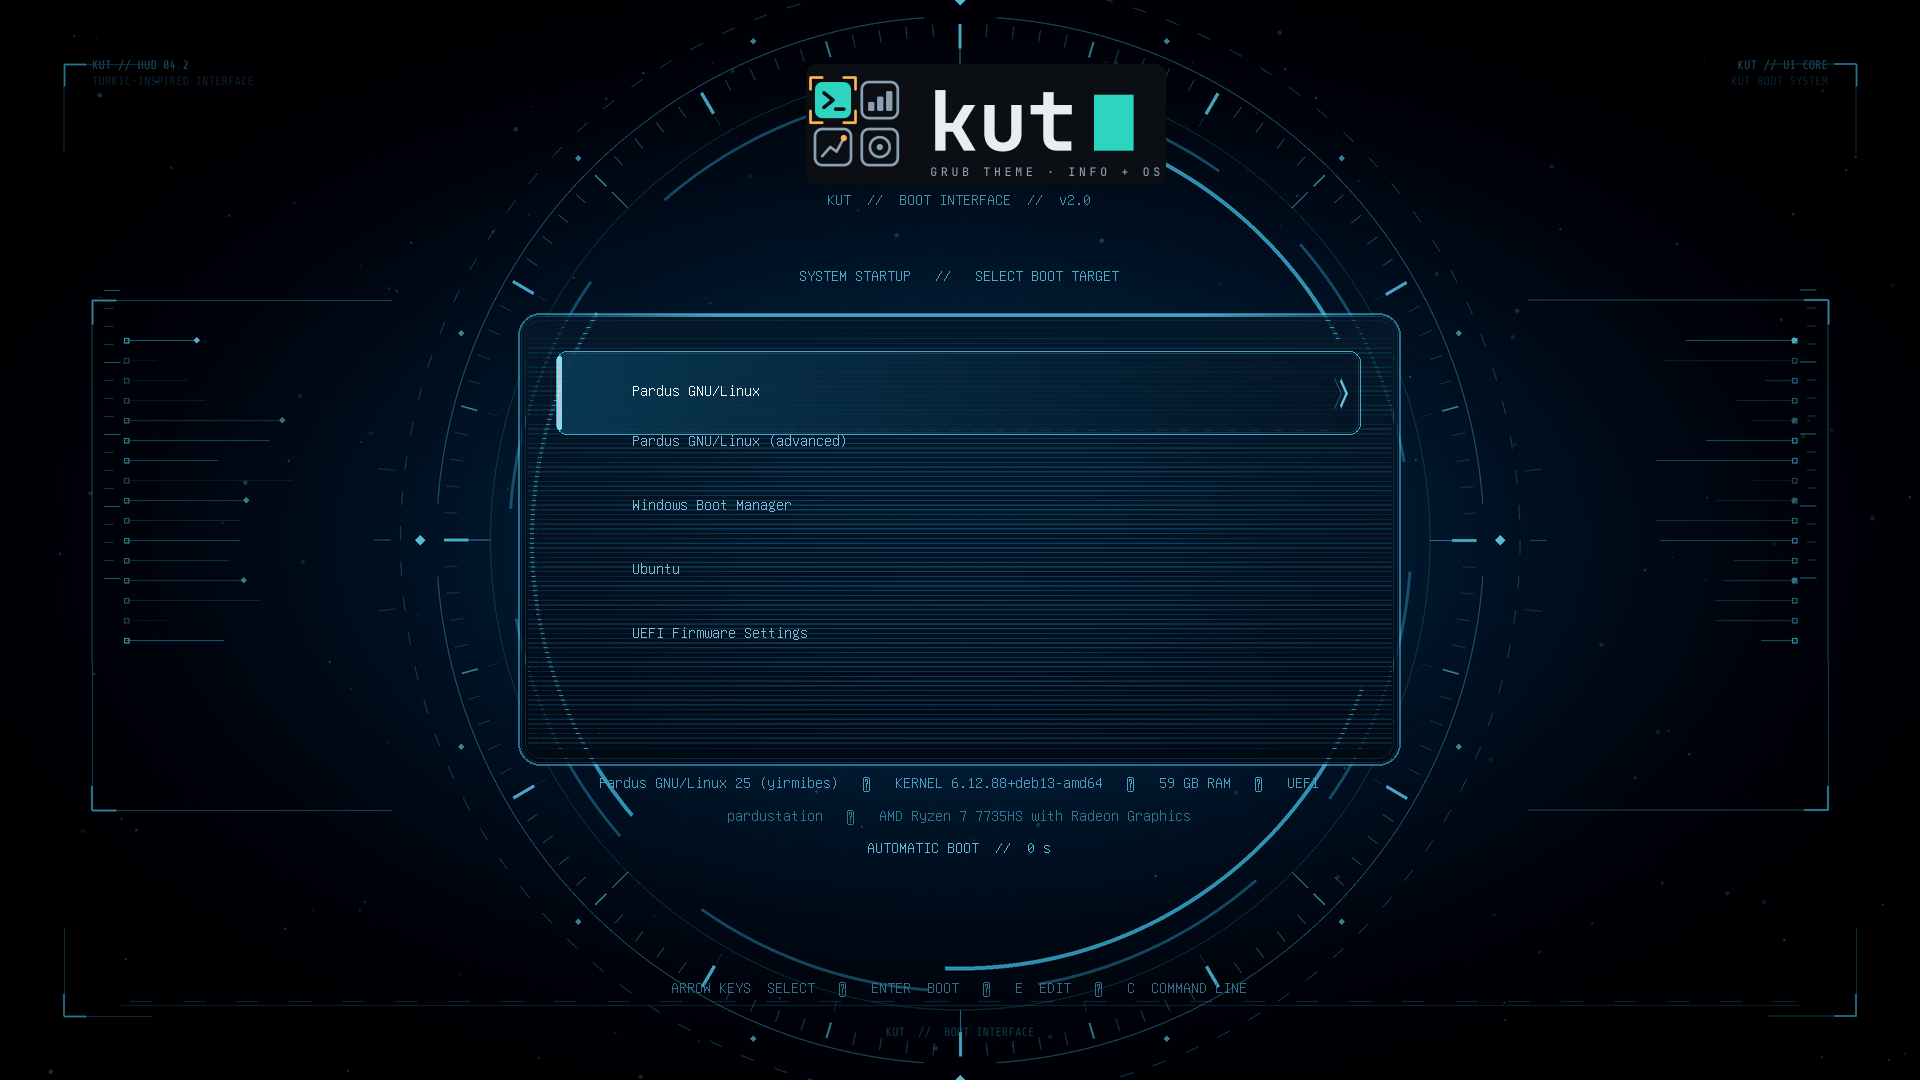
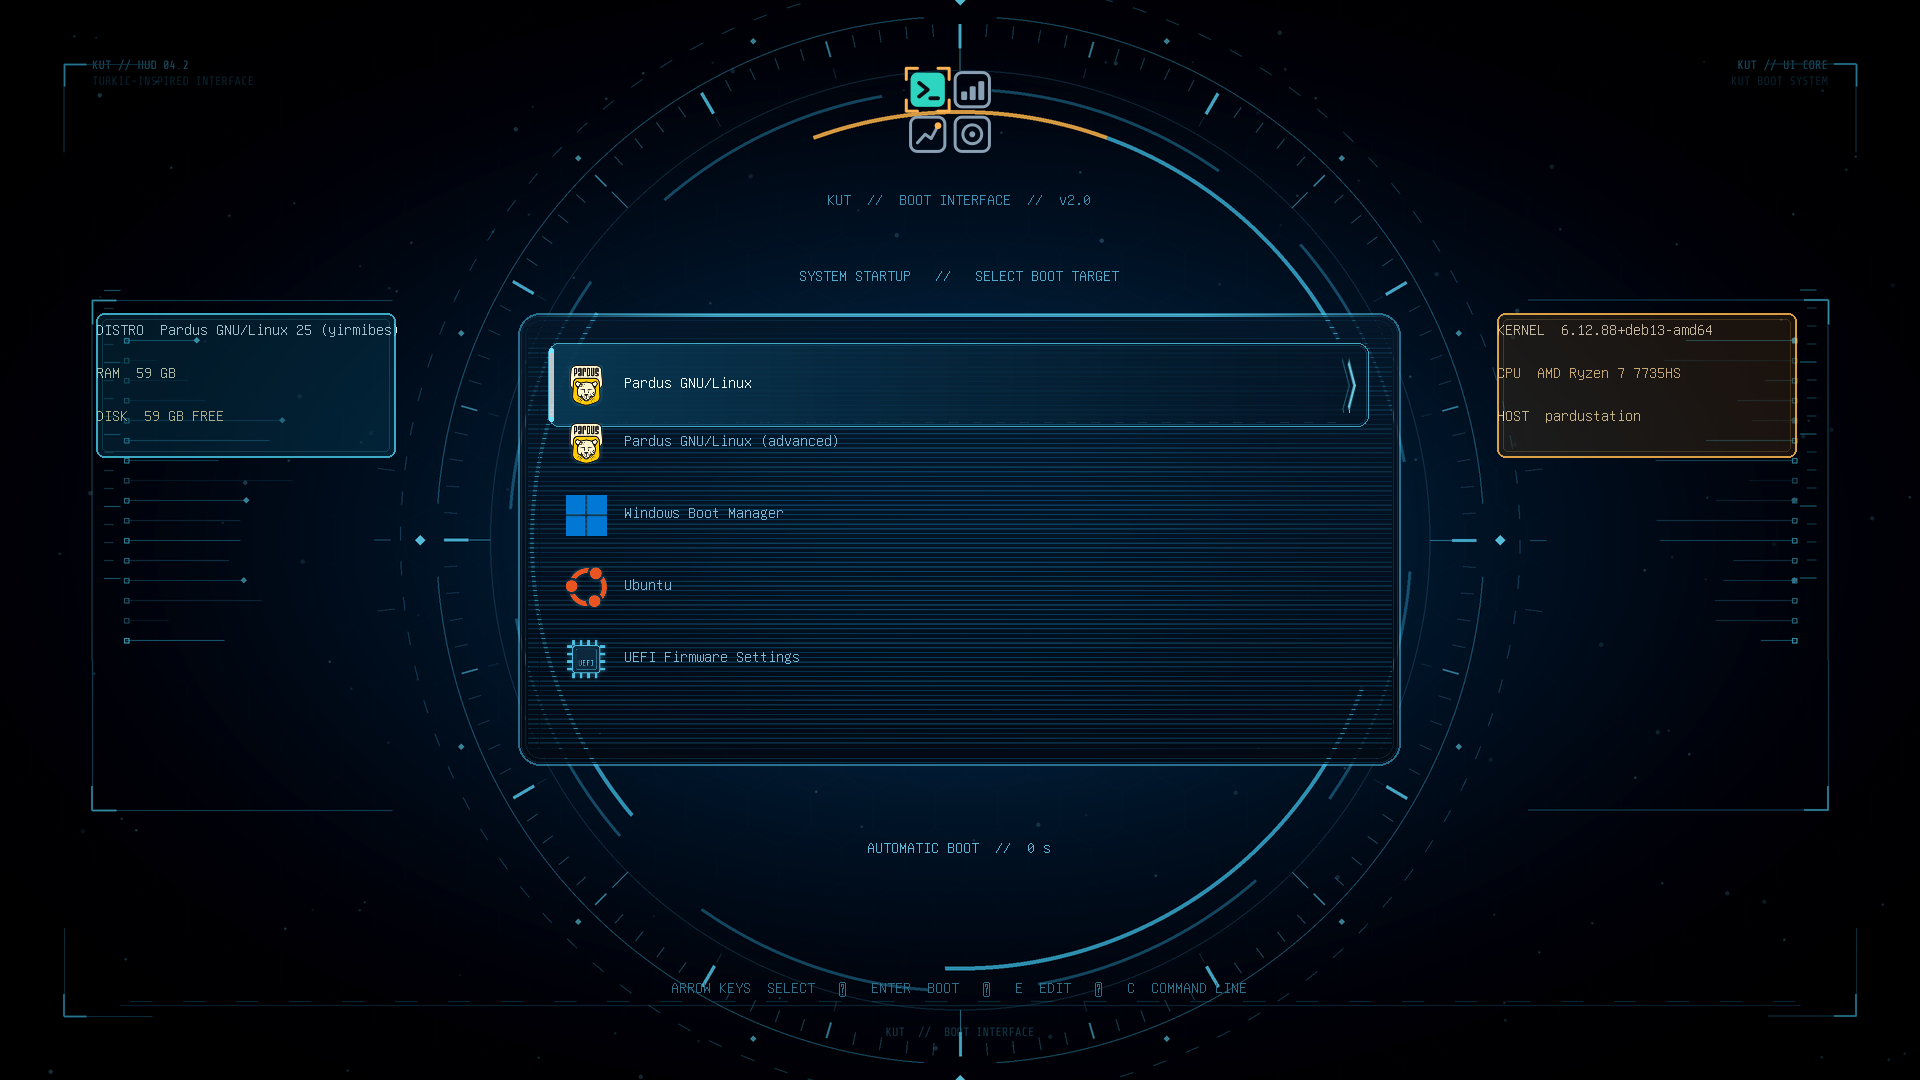
Improve Kut GRUB theme layout and readability

diff --git a/tools/generate_assets.py b/tools/generate_assets.py
@@ -442,7 +442,7 @@ def make_menu_box():
 
 
 def make_select_box():
-    w, h = 900, 56
+    w, h = 900, 44
     img = Image.new("RGBA", (w, h), (0, 0, 0, 0))
     d = ImageDraw.Draw(img)
     radius = 11
@@ -506,6 +506,21 @@ def make_progress_boxes():
     for x in range(4, w - 4, 9):
         hd.line((x, 3, x, h - 4), fill=(220, 252, 255, 55), width=1)
     save_slices("progress_highlight", hl, 7)
+
+
+def make_resource_boxes():
+    for name, fill, border in [
+        ("resource_left", (7, 76, 105, 86), (74, 205, 235, 210)),
+        ("resource_right", (83, 55, 24, 86), (255, 184, 77, 220)),
+    ]:
+        w, h = 300, 145
+        box = Image.new("RGBA", (w, h), (0, 0, 0, 0))
+        draw = ImageDraw.Draw(box)
+        draw.rounded_rectangle((0, 0, w - 1, h - 1), radius=8,
+                               fill=fill, outline=border, width=2)
+        draw.rounded_rectangle((6, 6, w - 7, h - 7), radius=5,
+                               outline=(*border[:3], 70), width=1)
+        box.save(THEME / f"{name}.png", optimize=True)
 
 
 # ---------------------------------------------------------------------------
@@ -709,6 +724,7 @@ def main():
     make_menu_box()
     make_select_box()
     make_progress_boxes()
+    make_resource_boxes()
 
     print("icons ...")
     with tempfile.TemporaryDirectory() as td:

diff --git a/README.md b/README.md
@@ -25,14 +25,14 @@ into one interface. Its name comes from the Old Turkic concept of “kut”.
 Clone the repository, then run the installer with administrator privileges:
 
 ~~~bash
-git clone <repository-url> kut
+git clone https://github.com/alihaydarsucu/kut.git kut
 cd kut
 sudo ./install.sh
 ~~~
 
 The installer backs up the current configuration under
 <code>/var/backups/kut-grub/&lt;timestamp&gt;</code> and then regenerates the GRUB
-configuration. See the [installation guide](docs/installation.md) for details.
+configuration. See the [installation guide](https://github.com/alihaydarsucu/kut/blob/main/docs/installation.md) for details.
 
 ## Uninstall
 
@@ -45,9 +45,9 @@ backup before doing so.
 
 ## Documentation
 
-- [Installation and configuration](docs/installation.md)
-- [Brand assets](docs/brand.md)
-- [Documentation index](docs/README.md)
+- [Installation and configuration](https://github.com/alihaydarsucu/kut/blob/main/docs/installation.md)
+- [Brand assets](https://github.com/alihaydarsucu/kut/blob/main/docs/brand.md)
+- [Documentation index](https://github.com/alihaydarsucu/kut/tree/main/docs)
 
 ## Preview
 
